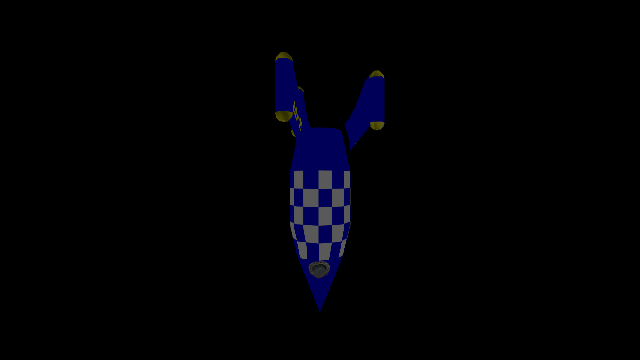
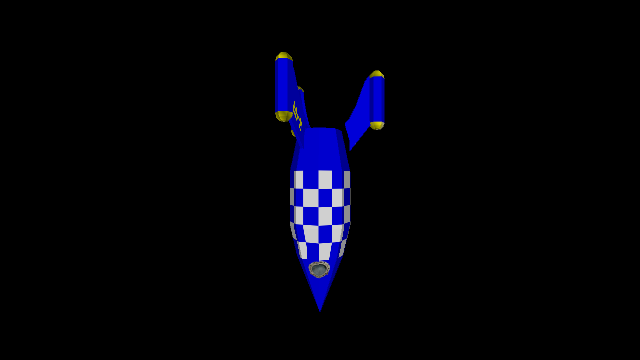
Add support for proper stroke outline on QUADS and QUAD_STRIPS and fix more triangle winding issues.

Changed region(s): [[0.4062, 0.1222, 0.625, 0.8556]]

diff --git a/src/processing_pshape.cc b/src/processing_pshape.cc
@@ -996,8 +996,7 @@ void PShapeImpl::populateIndices() {
             indices.push_back(j + i);
          }
       }
-      style = TRIANGLES;
-   } else if (style == TRIANGLE_STRIP || style == QUAD_STRIP) {
+   } else if (style == TRIANGLE_STRIP) {
       bool reverse = true;
       for (int i = 0; i < vertices.size() - 2; i++ ){
          if (reverse) {
@@ -1011,7 +1010,22 @@ void PShapeImpl::populateIndices() {
          }
          reverse = !reverse;
       }
-      style = TRIANGLE_STRIP;
+   } else if (style == QUAD_STRIP) {
+      for (int i = 0; i < vertices.size() - 2; i+=2 ){
+         std::vector<gl::vertex> quad_verts = {vertices[i], vertices[i+1], vertices[i+3], vertices[i+2]};
+         auto quad = triangulatePolygon( quad_verts, {});
+         auto s = [](int i) {
+            if (i==2)
+               return 3;
+            else if (i==3)
+               return 2;
+            else
+               return i;
+         };
+         for( auto &&j : quad ) {
+            indices.push_back(s(j) + i);
+         }
+      }
    } else if (style == CONVEX_POLYGON) {
       // Fill with triangle fan
       for (int i = 1; i < vertices.size() - 1 ; i++ ) {
@@ -1021,7 +1035,7 @@ void PShapeImpl::populateIndices() {
       }
    }  else if (style == TRIANGLE_FAN) {
       // Fill with triangle fan
-      for (int i = 1; i < vertices.size() - 1 ; i++ ) {
+      for (int i = 1; i < vertices.size() - 2 ; i++ ) {
          indices.push_back( i+1 );
          indices.push_back( i );
          indices.push_back( 0 );
@@ -1029,7 +1043,9 @@ void PShapeImpl::populateIndices() {
    } else if (style == POLYGON) {
       indices = triangulatePolygon(vertices, contour);
    } else if (style == TRIANGLES) {
-      for (int i = 0; i < vertices.size(); i++ ) {
+      for (int i = 0; i < vertices.size(); i+=3 ) {
+         indices.push_back( i+2 );
+         indices.push_back( i+1 );
          indices.push_back( i );
       }
    } else if (style == POINTS || style == LINES) {
@@ -1269,13 +1285,13 @@ void _line(PShapeImpl &triangles, PVector p1, PVector p2, float weight1, float w
    triangles.vertex( p2 - normal2 );
    triangles.vertex( p2 + normal2 );
 
-   triangles.index( i + 0 );
+   triangles.index( i + 2 );
    triangles.index( i + 1 );
-   triangles.index( i + 2 );
-
    triangles.index( i + 0 );
-   triangles.index( i + 2 );
+
    triangles.index( i + 3 );
+   triangles.index( i + 2 );
+   triangles.index( i + 0 );
 }
 
 PShapeImpl drawTriangleStrip(int points, const gl::vertex *p, const PShapeImpl::vInfoExtra *extras, const PMatrix &transform ) {
@@ -1449,9 +1465,65 @@ void PShapeImpl::draw_stroke(gl::batch_t &batch, const PMatrix& transform, bool 
       }
       break;
    }
+   case QUAD:
+   case QUADS:
+   {
+      // TODO: Fix mitred lines to somehow work in 3D
+      PShapeImpl shape;
+      shape.reserve(4*vertices.size(), 6 * vertices.size());
+      shape.beginShape(TRIANGLES);
+      for (int i = 0; i < vertices.size(); i+=4 ) {
+         PVector p0 = vertices[i].position;
+         PVector p1 = vertices[i+1].position;
+         PVector p2 = vertices[i+2].position;
+         PVector p3 = vertices[i+3].position;
+         float w0 = extras[i].weight;
+         float w1 = extras[i+1].weight;
+         float w2 = extras[i+2].weight;
+         float w3 = extras[i+3].weight;
+         color c0 =  extras[i].stroke;
+         color c1 =  extras[i+1].stroke;
+         color c2 =  extras[i+2].stroke;
+         color c3 =  extras[i+3].stroke;
+
+         _line(shape, p0, p1, w0, w1, c0, c1 );
+         _line(shape, p1, p2, w1, w2, c1, c2 );
+         _line(shape, p2, p3, w2, w3, c2, c3 );
+         _line(shape, p3, p0, w3, w0, c3, c0 );
+      }
+      shape.endShape();
+      shape.draw_fill( batch, transform, flatten_transforms);
+      break;
+   }
    case QUAD_STRIP:
-      // This isn't exactly right since we draw an extra line for every quad,
-      // but it's close enought for now.
+   {
+      // TODO: Fix mitred lines to somehow work in 3D
+      PShapeImpl shape;
+      shape.reserve(4*vertices.size(), 6 * vertices.size());
+      shape.beginShape(TRIANGLES);
+      for (int i = 0; i < vertices.size()-2; i+=2 ) {
+         PVector p0 = vertices[i+0].position;
+         PVector p1 = vertices[i+1].position;
+         PVector p2 = vertices[i+2].position;
+         PVector p3 = vertices[i+3].position;
+         float w0 = extras[i+0].weight;
+         float w1 = extras[i+1].weight;
+         float w2 = extras[i+2].weight;
+         float w3 = extras[i+3].weight;
+         color c0 =  extras[i+0].stroke;
+         color c1 =  extras[i+1].stroke;
+         color c2 =  extras[i+2].stroke;
+         color c3 =  extras[i+3].stroke;
+
+         _line(shape, p0, p1, w0, w1, c0, c1 );
+         _line(shape, p1, p3, w1, w3, c1, c3 );
+         _line(shape, p3, p2, w3, w2, c3, c2 );
+         _line(shape, p2, p0, w2, w0, c2, c0 );
+      }
+      shape.endShape();
+      shape.draw_fill( batch, transform, flatten_transforms);
+      break;
+   }
    case TRIANGLE_STRIP:
       drawTriangleStrip( vertices.size(),  vertices.data(), extras.data(), shape_matrix ).draw_fill( batch, transform, flatten_transforms );
       break;
